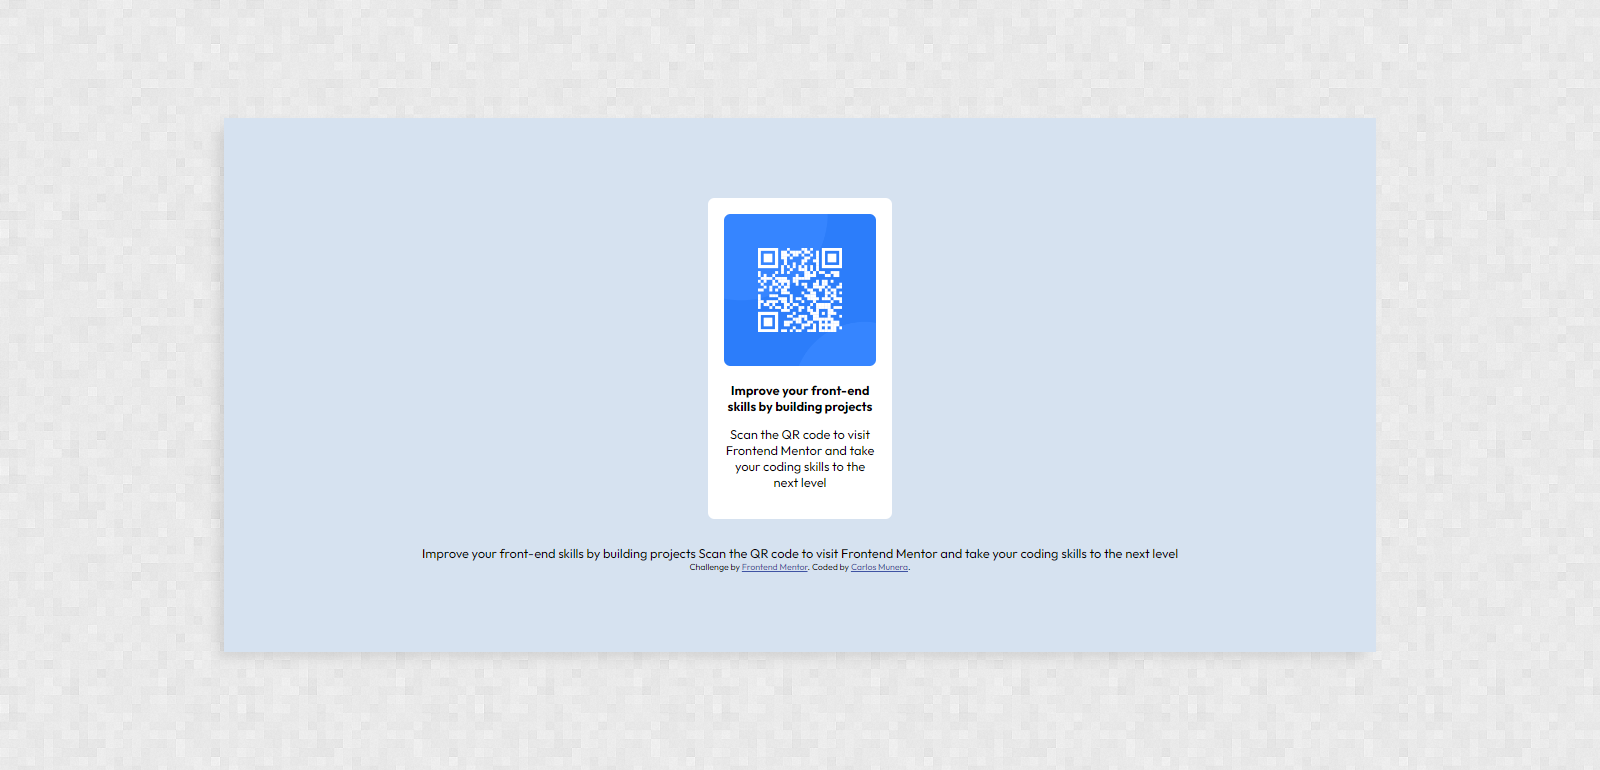
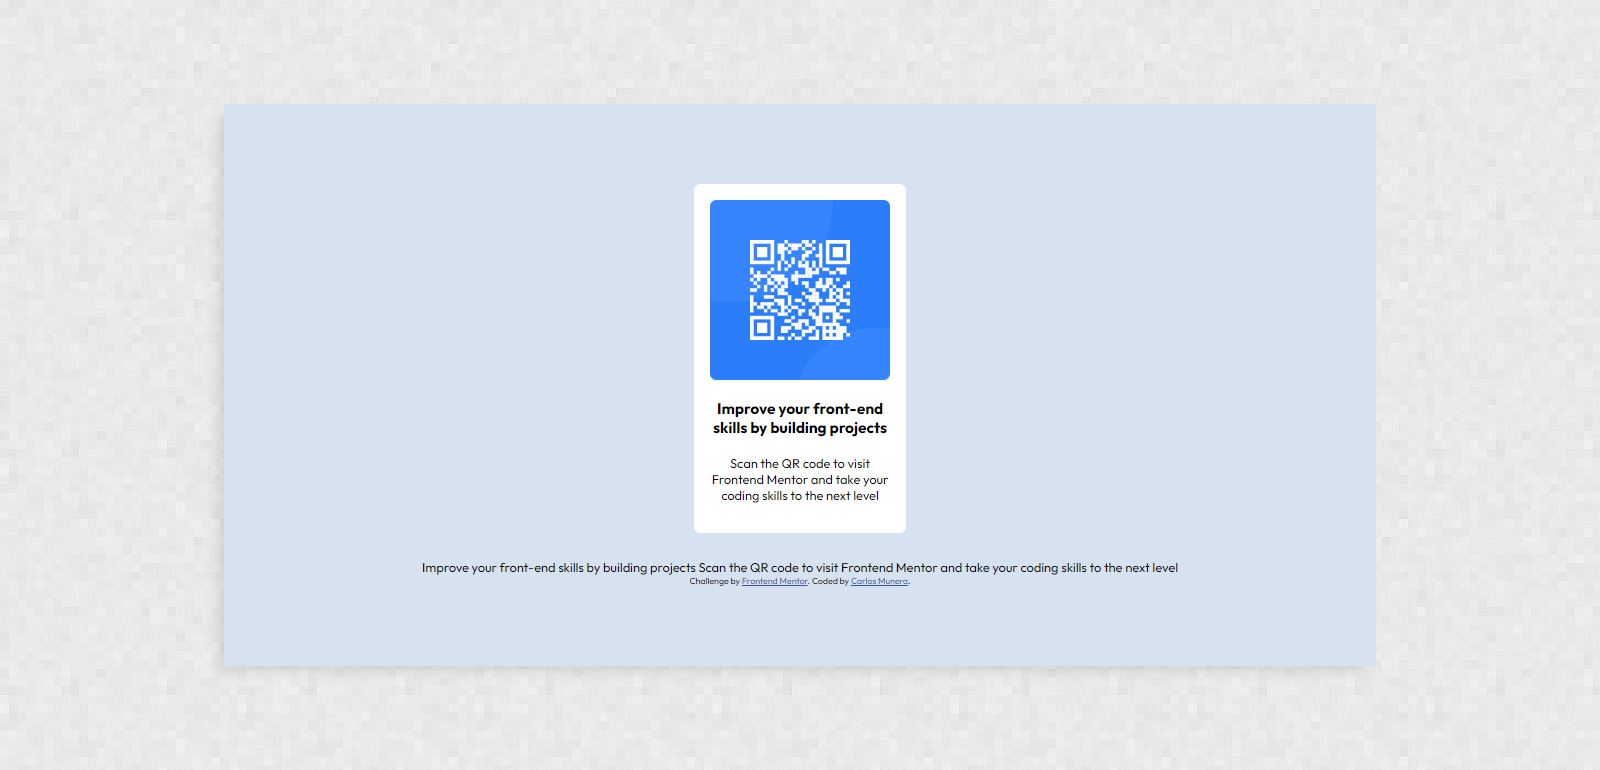
Se realiza corrección sugerida

Changed region(s): [[0.25, 0.2182, 0.75, 0.7792]]

diff --git a/index.html b/index.html
@@ -41,7 +41,7 @@
         }
         
         p {
-            padding: 0.5rem;
+            padding: 0.1rem;
         }
         
         body {
@@ -81,12 +81,13 @@
             margin: 0 auto;
             text-align: center;
             padding: 20px;
-            width: 240px;
+            width: 265px;
             margin-bottom: 2rem;
         }
         
         .bold-font {
-            font-weight: bold;
+            font-size: 1.2rem;
+            font-weight: 700;
         }
         
         .attribution {
@@ -101,7 +102,7 @@
 </head>
 
 <body>
-    <div class="container ">
+    <div class="container">
         <div class="card rounded-borders">
             <img class="imgage rounded-borders" src="images/image-qr-code.png" alt="QR code image">
             <p class="bold-font">
